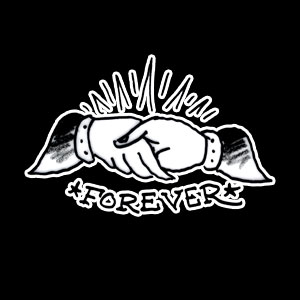
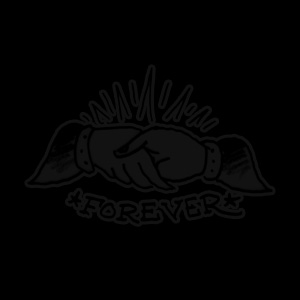
Added grayscale back

Changed region(s): [[0.06, 0.18, 0.93, 0.72]]

diff --git a/homepage-variables-controller.php b/homepage-variables-controller.php
@@ -8,7 +8,7 @@
 	<?php // Homepage Layout 1 Tile 1 (Static Image Tile) ?>
 	<?php $hp1_tile_1_bg_image = get_field('hp1_tile_1_bg_image'); ?>
 	<?php if( !empty($hp1_tile_1_bg_image) ): ?>
-		<div class="threecol grid clearfix hideme" id="tile_1"><img class="grayscale" src="<?php echo $hp1_tile_1_bg_image['url']; ?>" alt="<?php echo $hp1_tile_1_bg_image['alt']; ?>" /></div>
+		<div class="threecol grid clearfix grayscale hideme" id="tile_1"><img class="grayscale" src="<?php echo $hp1_tile_1_bg_image['url']; ?>" alt="<?php echo $hp1_tile_1_bg_image['alt']; ?>" /></div>
 	<?php endif; ?>
 
 	<?php // Homepage Layout 1 Tile 2 (Instagram Tile) ?>
@@ -25,7 +25,7 @@
 	    });
 	    instagramHP1Tile2.run();
 	</script>
-	<div class="threecol grid clearfix hideme" id="instagram_hp_1_tile_2"></div>
+	<div class="threecol grid clearfix grayscale hideme" id="instagram_hp_1_tile_2"></div>
 
 	<?php // Homepage Layout 1 Tile 3 (Instagram Tile) ?>
 	<script type="text/javascript">
@@ -47,18 +47,18 @@
 	    });
 	    instagramHP1Tile3.run();
 	</script>
-	<div class="threecol grid clearfix hideme" id="instagram_hp_1_tile_3"></div>
+	<div class="threecol grid clearfix grayscale hideme" id="instagram_hp_1_tile_3"></div>
 
 	<?php // Homepage Layout 1 Tile 4 (Latest News Tile) ?>
 	<?php $hp1_tile_4_bg_image = get_field('latest_news_tile_bg_image'); ?>
 	<?php if( !empty($hp1_tile_4_bg_image) ): ?>
-		<div class="threecol grid gridbg clearfix" id="tile_4" style="background-image: url(<?php echo $hp1_tile_4_bg_image['url']; ?>);"><a href="#newsletter"><h2>Latest <strong>News</strong></h2></a></div>
+		<div class="threecol grid gridbg clearfix grayscale" id="tile_4" style="background-image: url(<?php echo $hp1_tile_4_bg_image['url']; ?>);"><a href="#newsletter"><h2>Latest <strong>News</strong></h2></a></div>
 	<?php endif; ?>
 
 	<?php // Homepage Layout 1 Tile 5 (Lookbook Tile) ?>
 	<?php $hp1_tile_5_bg_image = get_field('lookbook_tile_bg_image'); ?>
 	<?php if( !empty($hp1_tile_5_bg_image) ): ?>
-		<div class="threecol grid gridbg clearfix" id="tile_5" style="background-image: url(<?php echo $hp1_tile_5_bg_image['url']; ?>);"><a href="/lookbook"><h2>2014 <strong>Lookbook</strong></h2></a></div>
+		<div class="threecol grid gridbg clearfix grayscale" id="tile_5" style="background-image: url(<?php echo $hp1_tile_5_bg_image['url']; ?>);"><a href="/lookbook"><h2>2014 <strong>Lookbook</strong></h2></a></div>
 	<?php endif; ?>
 
 	<?php // Homepage Layout 1 Tile 6 (Instagram Tile) ?>
@@ -81,36 +81,36 @@
 	    });
 	    instagramHP1Tile6.run();
 	</script>
-	<div class="threecol grid clearfix hideme" id="instagram_hp_1_tile_6"></div>
+	<div class="threecol grid clearfix grayscale hideme" id="instagram_hp_1_tile_6"></div>
 
 	<?php // Homepage Layout 1 Tile 7 (Static Image Tile) ?>
 	<?php $hp1_tile_7_bg_image = get_field('hp1_tile_7_bg_image'); ?>
 	<?php if( !empty($hp1_tile_7_bg_image) ): ?>
-		<div class="threecol grid clearfix hideme" id="tile_7"><img class="grayscale" src="<?php echo $hp1_tile_7_bg_image['url']; ?>" alt="<?php echo $hp1_tile_7_bg_image['alt']; ?>" /></div>
+		<div class="threecol grid clearfix grayscale hideme" id="tile_7"><img class="grayscale" src="<?php echo $hp1_tile_7_bg_image['url']; ?>" alt="<?php echo $hp1_tile_7_bg_image['alt']; ?>" /></div>
 	<?php endif; ?>
 
 	<?php // Homepage Layout 1 Tile 8 (Twitter Feed Tile) ?>
 	<?php $hp1_tile_8_bg_image = get_field('twitter_feed_tile_bg_image'); ?>
 	<?php if( !empty($hp1_tile_8_bg_image) ): ?>
-		<div class="threecol grid gridbg grayscale" id="twitter_feed_tile" style="background-image: url(<?php echo $hp1_tile_8_bg_image['url']; ?>);">Twitter Carousel</div>
+		<div class="threecol grid gridbg clearfix grayscale" id="twitter_feed_tile" style="background-image: url(<?php echo $hp1_tile_8_bg_image['url']; ?>);">Twitter Carousel</div>
 	<?php endif; ?>
 
 	<?php // Homepage Layout 1 Tile 9 (About Tile) ?>
 	<?php $hp1_tile_9_bg_image = get_field('about_tile_bg_image'); ?>
 	<?php if( !empty($hp1_tile_9_bg_image) ): ?>
-		<div class="threecol grid gridbg clearfix" id="about_tile" style="background-image: url(<?php echo $hp1_tile_9_bg_image['url']; ?>);"><a href="#about"><h2>About <strong>Ed</strong></h2></a></div>
+		<div class="threecol grid gridbg clearfix grayscale" id="about_tile" style="background-image: url(<?php echo $hp1_tile_9_bg_image['url']; ?>);"><a href="#about"><h2>About <strong>Ed</strong></h2></a></div>
 	<?php endif; ?>
 
 	<?php // Homepage Layout 1 Tile 10 (Static Image Tile) ?>
 	<?php $hp1_tile_10_bg_image = get_field('hp1_tile_10_bg_image'); ?>
 	<?php if( !empty($hp1_tile_10_bg_image) ): ?>
-		<div class="threecol grid clearfix hideme" id="tile_10"><img class="grayscale" src="<?php echo $hp1_tile_10_bg_image['url']; ?>" alt="<?php echo $hp1_tile_10_bg_image['alt']; ?>" /></div>
+		<div class="threecol grid clearfix grayscale hideme" id="tile_10"><img class="grayscale" src="<?php echo $hp1_tile_10_bg_image['url']; ?>" alt="<?php echo $hp1_tile_10_bg_image['alt']; ?>" /></div>
 	<?php endif; ?>
 
 	<?php // Homepage Layout 1 Tile 11 (Follow Us Tile) ?>
 	<?php $hp1_tile_11_bg_image = get_field('follow_us_tile_hp1_bg_image'); ?>
 	<?php if( !empty($hp1_tile_11_bg_image) ): ?>
-		<div class="threecol grid gridbg grayscale clearfix" id="follow_us_tile" style="background-image: url(<?php echo $hp1_tile_11_bg_image['url']; ?>);">
+		<div class="threecol grid gridbg clearfix grayscale" id="follow_us_tile" style="background-image: url(<?php echo $hp1_tile_11_bg_image['url']; ?>);">
 			<h2>Follow Us</h2>
 			<ul class="clearfix">
 				<li class="facebook"><a class="image-replacement" href="https://www.facebook.com/edhardy" target="_blank">Facebook (https://www.facebook.com/edhardy)</a></li>
@@ -141,7 +141,7 @@
 	    });
 	    instagramHP1Tile12.run();
 	</script>
-	<div class="threecol grid clearfix" id="instagram_hp_1_tile_12"></div>
+	<div class="threecol grid clearfix grayscale" id="instagram_hp_1_tile_12"></div>
 
 <?php endif; ?>
 
@@ -152,7 +152,7 @@
 	<?php // Homepage Layout 2 Tile 1 (Static Image Tile) ?>
 	<?php $hp2_tile_1_bg_image = get_field('hp2_tile_1_bg_image'); ?>
 	<?php if( !empty($hp2_tile_1_bg_image) ): ?>
-		<div class="sixcol grid clearfix" id="tile_1"><img class="grayscale" src="<?php echo $hp2_tile_1_bg_image['url']; ?>" alt="<?php echo $hp2_tile_1_bg_image['alt']; ?>" /></div>
+		<div class="sixcol grid clearfix grayscale" id="tile_1"><img class="grayscale" src="<?php echo $hp2_tile_1_bg_image['url']; ?>" alt="<?php echo $hp2_tile_1_bg_image['alt']; ?>" /></div>
 	<?php endif; ?>
 
 	<?php // Homepage Layout 2 Tile 2 (Instagram Tile) ?>
@@ -174,31 +174,31 @@
 	<?php // Homepage Layout 2 Tile 3 (Static Image Tile) ?>
 	<?php $hp2_tile_3_bg_image = get_field('hp2_tile_3_bg_image'); ?>
 	<?php if( !empty($hp2_tile_3_bg_image) ): ?>
-		<div class="threecol grid clearfix hideme" id="tile_3"><img class="grayscale" src="<?php echo $hp2_tile_3_bg_image['url']; ?>" alt="<?php echo $hp2_tile_3_bg_image['alt']; ?>" /></div>
+		<div class="threecol grid clearfix grayscale hideme" id="tile_3"><img class="grayscale" src="<?php echo $hp2_tile_3_bg_image['url']; ?>" alt="<?php echo $hp2_tile_3_bg_image['alt']; ?>" /></div>
 	<?php endif; ?>
 
 	<?php // Homepage Layout 2 Tile 4 (Static Image Tile) ?>
 	<?php $hp2_tile_4_bg_image = get_field('hp2_tile_4_bg_image'); ?>
 	<?php if( !empty($hp2_tile_4_bg_image) ): ?>
-		<div class="threecol grid clearfix hideme" id="tile_4"><img class="grayscale" src="<?php echo $hp2_tile_4_bg_image['url']; ?>" alt="<?php echo $hp2_tile_4_bg_image['alt']; ?>" /></div>
+		<div class="threecol grid clearfix grayscale hideme" id="tile_4"><img class="grayscale" src="<?php echo $hp2_tile_4_bg_image['url']; ?>" alt="<?php echo $hp2_tile_4_bg_image['alt']; ?>" /></div>
 	<?php endif; ?>
 
 	<?php // Homepage Layout 2 Tile 5 (Twitter Feed Tile) ?>
 	<?php $hp2_tile_5_bg_image = get_field('twitter_feed_tile_bg_image'); ?>
 	<?php if( !empty($hp2_tile_5_bg_image) ): ?>
-		<div class="threecol grid gridbg grayscale" id="twitter_feed_tile" style="background-image: url(<?php echo $hp2_tile_5_bg_image['url']; ?>);">Twitter Carousel</div>
+		<div class="threecol grid gridbg clearfix grayscale" id="twitter_feed_tile" style="background-image: url(<?php echo $hp2_tile_5_bg_image['url']; ?>);">Twitter Carousel</div>
 	<?php endif; ?>
 
 	<?php // Homepage Layout 2 Tile 6 (Lookbook Tile) ?>
 	<?php $hp2_tile_6_bg_image = get_field('lookbook_tile_bg_image'); ?>
 	<?php if( !empty($hp2_tile_6_bg_image) ): ?>
-		<div class="threecol grid gridbg clearfix" id="tile_6" style="background-image: url(<?php echo $hp2_tile_6_bg_image['url']; ?>);"><a href="/lookbook"><h2>2014 <strong>Lookbook</strong></h2></a></div>
+		<div class="threecol grid gridbg clearfix grayscale" id="tile_6" style="background-image: url(<?php echo $hp2_tile_6_bg_image['url']; ?>);"><a href="/lookbook"><h2>2014 <strong>Lookbook</strong></h2></a></div>
 	<?php endif; ?>
 
 	<?php // Homepage Layout 2 Tile 7 (Follow Us Tile) ?>
 	<?php $hp2_tile_7_bg_image = get_field('follow_us_tile_hp2_bg_image'); ?>
 	<?php if( !empty($hp2_tile_7_bg_image) ): ?>
-		<div class="sixcol grid gridbg grayscale clearfix hideme" id="follow_us_tile" style="background-image: url(<?php echo $hp2_tile_7_bg_image['url']; ?>);">
+		<div class="sixcol grid gridbg clearfix grayscale hideme" id="follow_us_tile" style="background-image: url(<?php echo $hp2_tile_7_bg_image['url']; ?>);">
 			<h2>Follow Us</h2>
 			<ul class="clearfix">
 				<li class="facebook"><a class="image-replacement" href="https://www.facebook.com/edhardy" target="_blank">Facebook (https://www.facebook.com/edhardy)</a></li>
@@ -212,7 +212,7 @@
 	<?php // Homepage Layout 2 Tile 8 (Latest News Tile) ?>
 	<?php $hp2_tile_8_bg_image = get_field('latest_news_tile_bg_image'); ?>
 	<?php if( !empty($hp2_tile_8_bg_image) ): ?>
-		<div class="threecol grid gridbg clearfix" id="tile_8" style="background-image: url(<?php echo $hp2_tile_8_bg_image['url']; ?>);"><a href="#newsletter"><h2>Latest <strong>News</strong></h2></a></div>
+		<div class="threecol grid gridbg clearfix grayscale" id="tile_8" style="background-image: url(<?php echo $hp2_tile_8_bg_image['url']; ?>);"><a href="#newsletter"><h2>Latest <strong>News</strong></h2></a></div>
 	<?php endif; ?>
 
 <?php endif; ?>
@@ -224,25 +224,25 @@
 	<?php // Homepage Layout 3 Tile 1 (Static Image Tile) ?>
 	<?php $hp3_tile_1_bg_image = get_field('hp3_tile_1_bg_image'); ?>
 	<?php if( !empty($hp3_tile_1_bg_image) ): ?>
-		<div class="twelvecol grid clearfix" id="tile_1"><img class="grayscale" src="<?php echo $hp3_tile_1_bg_image['url']; ?>" alt="<?php echo $hp3_tile_1_bg_image['alt']; ?>" /></div>
+		<div class="twelvecol grid clearfix grayscale" id="tile_1"><img class="grayscale" src="<?php echo $hp3_tile_1_bg_image['url']; ?>" alt="<?php echo $hp3_tile_1_bg_image['alt']; ?>" /></div>
 	<?php endif; ?>
 
 	<?php // Homepage Layout 3 Tile 2 (Lookbook Tile) ?>
 	<?php $hp3_tile_2_bg_image = get_field('lookbook_tile_bg_image'); ?>
 	<?php if( !empty($hp3_tile_2_bg_image) ): ?>
-		<div class="threecol grid gridbg clearfix" id="tile_2" style="background-image: url(<?php echo $hp3_tile_2_bg_image['url']; ?>);"><a href="/lookbook"><h2>2014 <strong>Lookbook</strong></h2></a></div>
+		<div class="threecol grid gridbg clearfix grayscale" id="tile_2" style="background-image: url(<?php echo $hp3_tile_2_bg_image['url']; ?>);"><a href="/lookbook"><h2>2014 <strong>Lookbook</strong></h2></a></div>
 	<?php endif; ?>
 
 	<?php // Homepage Layout 3 Tile 3 (Twitter Feed Tile) ?>
 	<?php $hp3_tile_3_bg_image = get_field('twitter_feed_tile_bg_image'); ?>
 	<?php if( !empty($hp3_tile_3_bg_image) ): ?>
-		<div class="threecol grid gridbg grayscale" id="twitter_feed_tile" style="background-image: url(<?php echo $hp3_tile_3_bg_image['url']; ?>);">Twitter Carousel</div>
+		<div class="threecol grid gridbg clearfix grayscale" id="twitter_feed_tile" style="background-image: url(<?php echo $hp3_tile_3_bg_image['url']; ?>);">Twitter Carousel</div>
 	<?php endif; ?>
 
 	<?php // Homepage Layout 3 Tile 4 (Latest News Tile) ?>
 	<?php $hp3_tile_4_bg_image = get_field('latest_news_tile_bg_image'); ?>
 	<?php if( !empty($hp3_tile_4_bg_image) ): ?>
-		<div class="threecol grid gridbg clearfix" id="tile_4" style="background-image: url(<?php echo $hp3_tile_4_bg_image['url']; ?>);"><a href="#newsletter"><h2>Latest <strong>News</strong></h2></a></div>
+		<div class="threecol grid gridbg clearfix grayscale" id="tile_4" style="background-image: url(<?php echo $hp3_tile_4_bg_image['url']; ?>);"><a href="#newsletter"><h2>Latest <strong>News</strong></h2></a></div>
 	<?php endif; ?>
 
 	<?php // Homepage Layout 3 Tile 5 (Instagram Tile) ?>
@@ -259,7 +259,7 @@
 	    });
 	    instagramHP3Tile5.run();
 	</script>
-	<div class="threecol grid clearfix" id="instagram_hp_3_tile_5"></div>
+	<div class="threecol grid clearfix grayscale" id="instagram_hp_3_tile_5"></div>
 
 <?php endif; ?>
 
